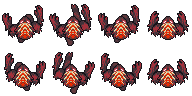
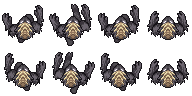
change style of zombies

diff --git a/desktopController.html b/desktopController.html
@@ -126,17 +126,12 @@
 					game.load.spritesheet('zombieSimple', 'assets/zombies/simple/zombie_sprites.png', 48, 48, 8);
 					game.load.spritesheet('zombieSaveable', 'assets/zombies/simple/zombie_saveable.png', 48, 48, 8);
 					
-					truckSound = game.load.audio('truckSound', 'assets/audio/engine_sound.wav');
-					
-					sounds = [ truckSound ];
-    				game.sound.setDecodedCallback(sounds, startSounds, this);
-					
 					game.time.advancedTiming = true;
 					
 				}
 				
 				function startSounds() {
-					truckSound.loopFull();
+					
 				}
 
 				var truck;
